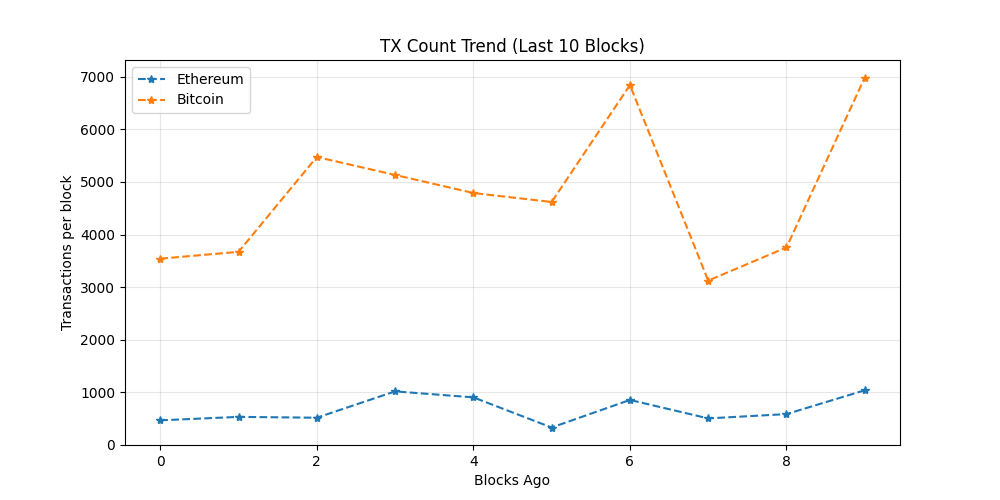
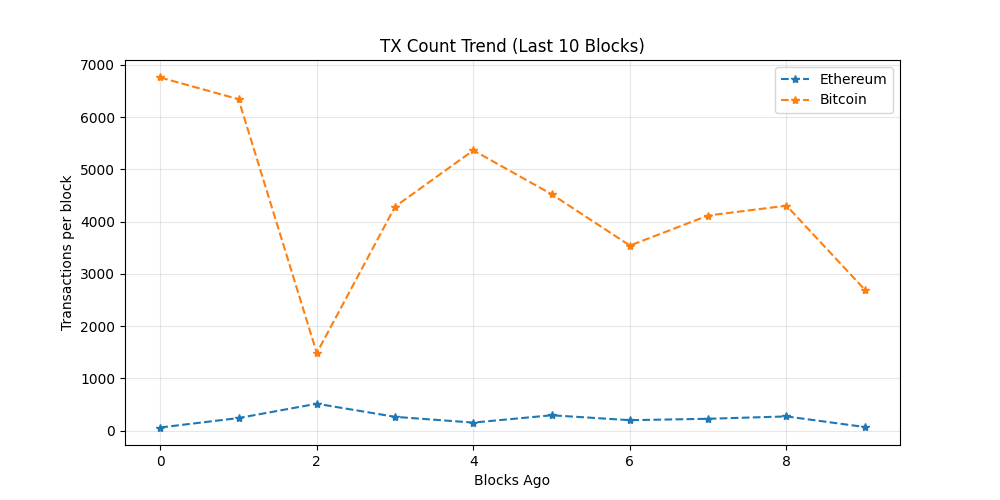
chore: update on-chain dashboard

diff --git a/README.md b/README.md
@@ -19,7 +19,7 @@ The README itself acts as the dashboard and is regenerated automatically on a 6 
 demonstrating a production-style, infrastructure-focused observability workflow rather
 than a traditional UI-driven approach.
 
-_Last updated: 2026-05-13 04:11 UTC_
+_Last updated: 2026-05-13 09:18 UTC_
 
 ## API Usage (GetBlock.io)
 - Calls used: **24**
@@ -27,8 +27,8 @@ _Last updated: 2026-05-13 04:11 UTC_
 ## Network Metrics
 | Chain | Block Height | TX Count | TPS (10 blk avg) | Block Util | Avg Fee |
 |------|-------------|----------|------------------|------------|---------|
-| Ethereum | 25083738 | 1038 | 86.5 | 97.07% | 0.1 Gwei |
-| Bitcoin | 949168 | 6986 | 188.81 | 99.79% | N/A |
+| Ethereum | 25085270 | 69 | 5.75 | 13.99% | 0.2 Gwei |
+| Bitcoin | 949191 | 2698 | 89.93 | 99.8% | N/A |
 
 ## Visuals
 ### Transactions Trend
@@ -43,7 +43,8 @@ _Last updated: 2026-05-13 04:11 UTC_
 ## Whale Alerts (latest block)
 - Transaction hashes are truncated for readability.
 - Full hashes are available in `dashboards/metrics.json`
-- Bitcoin | 206.75 BTC | `49b62a7657e4…`
+- Bitcoin | 209.0 BTC | `e0e9710a3019…`
+- Bitcoin | 100.03 BTC | `0ce4003bdd66…`
 
 ## Run locally
 
